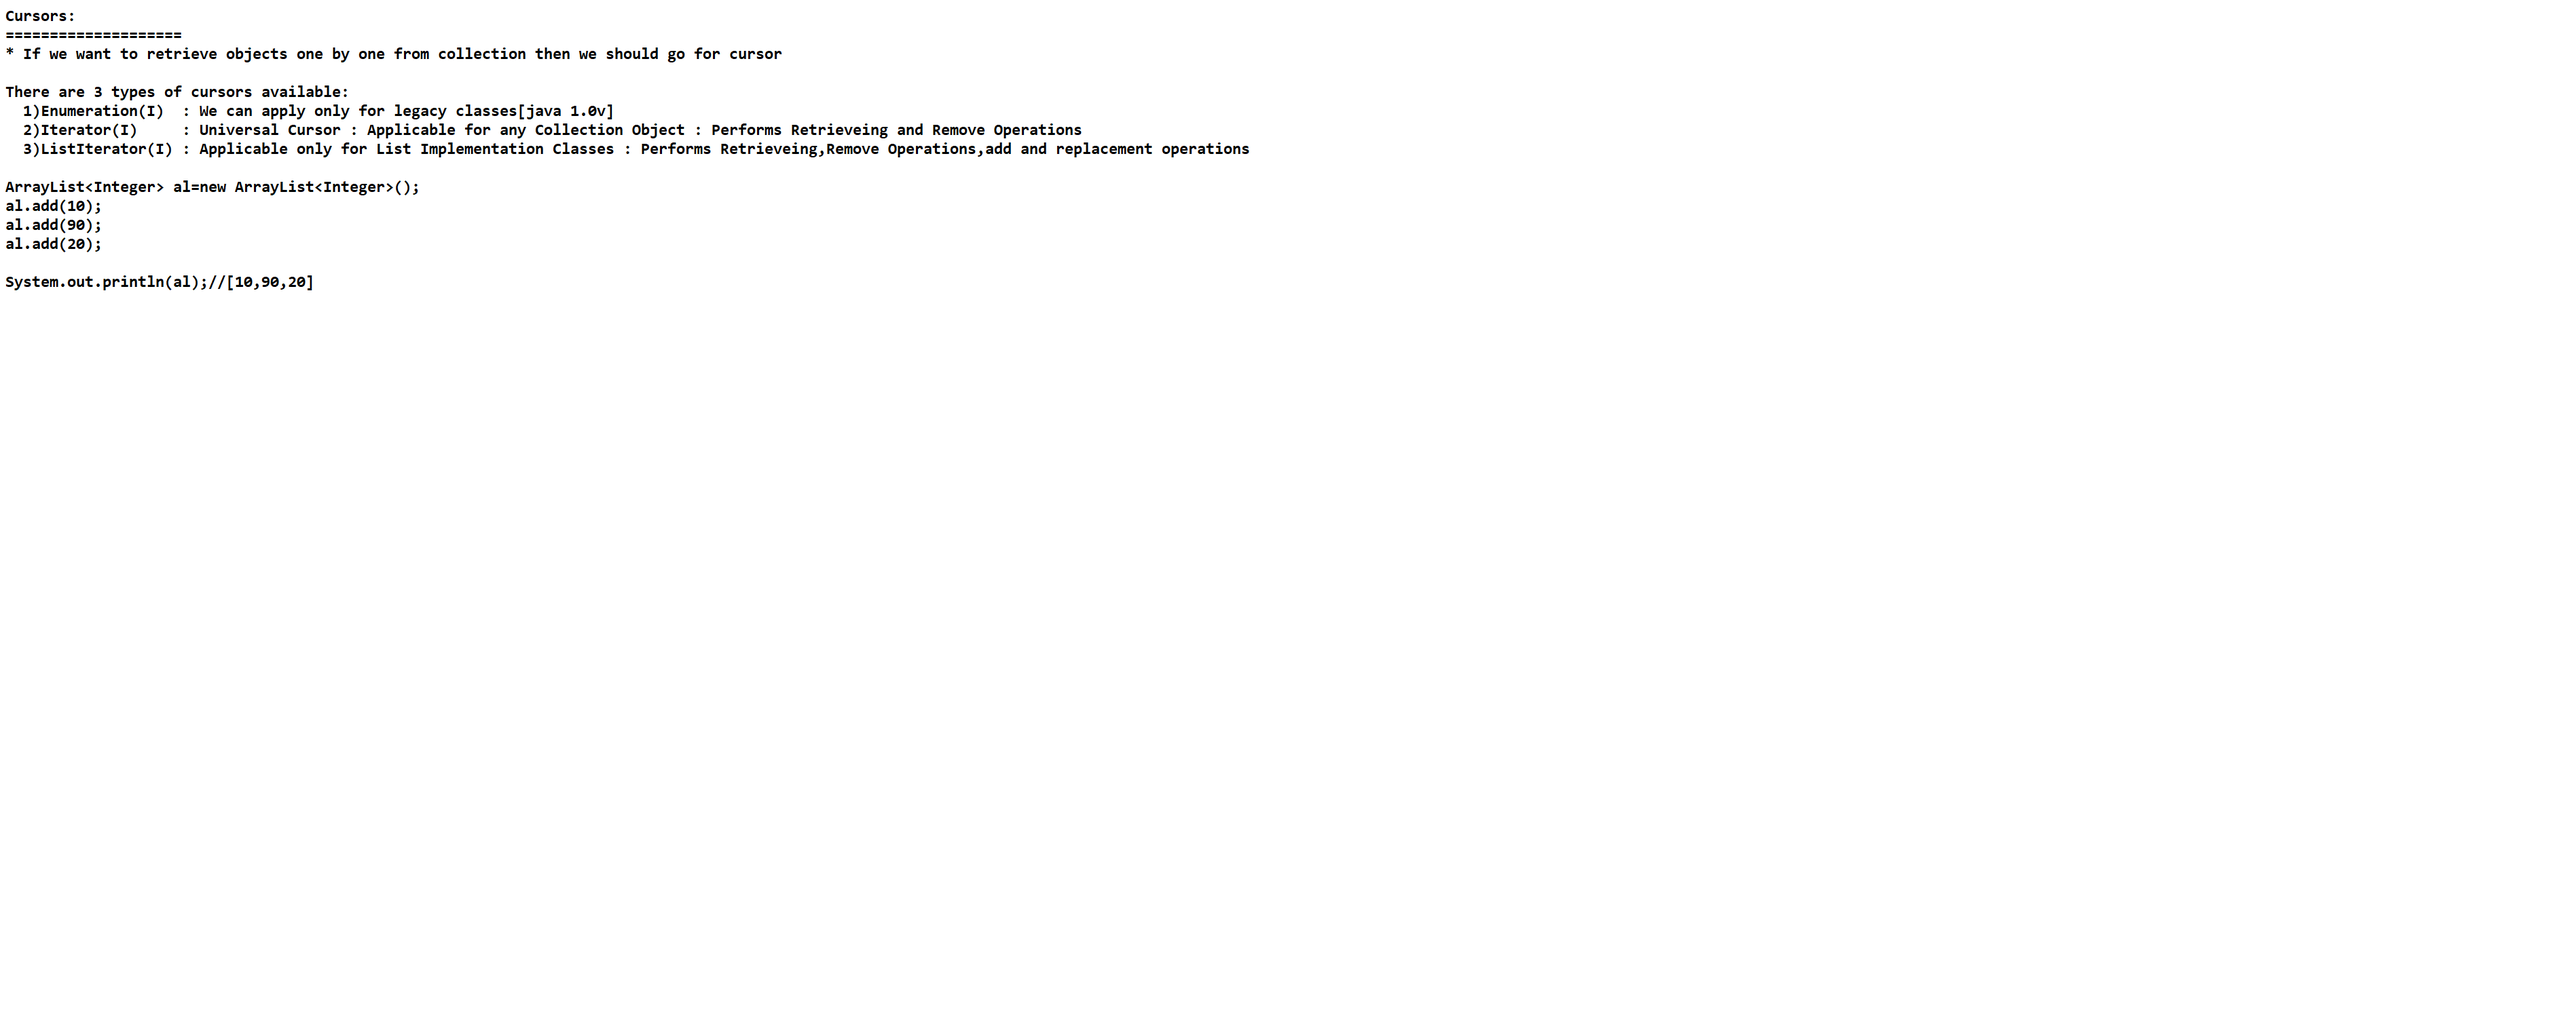
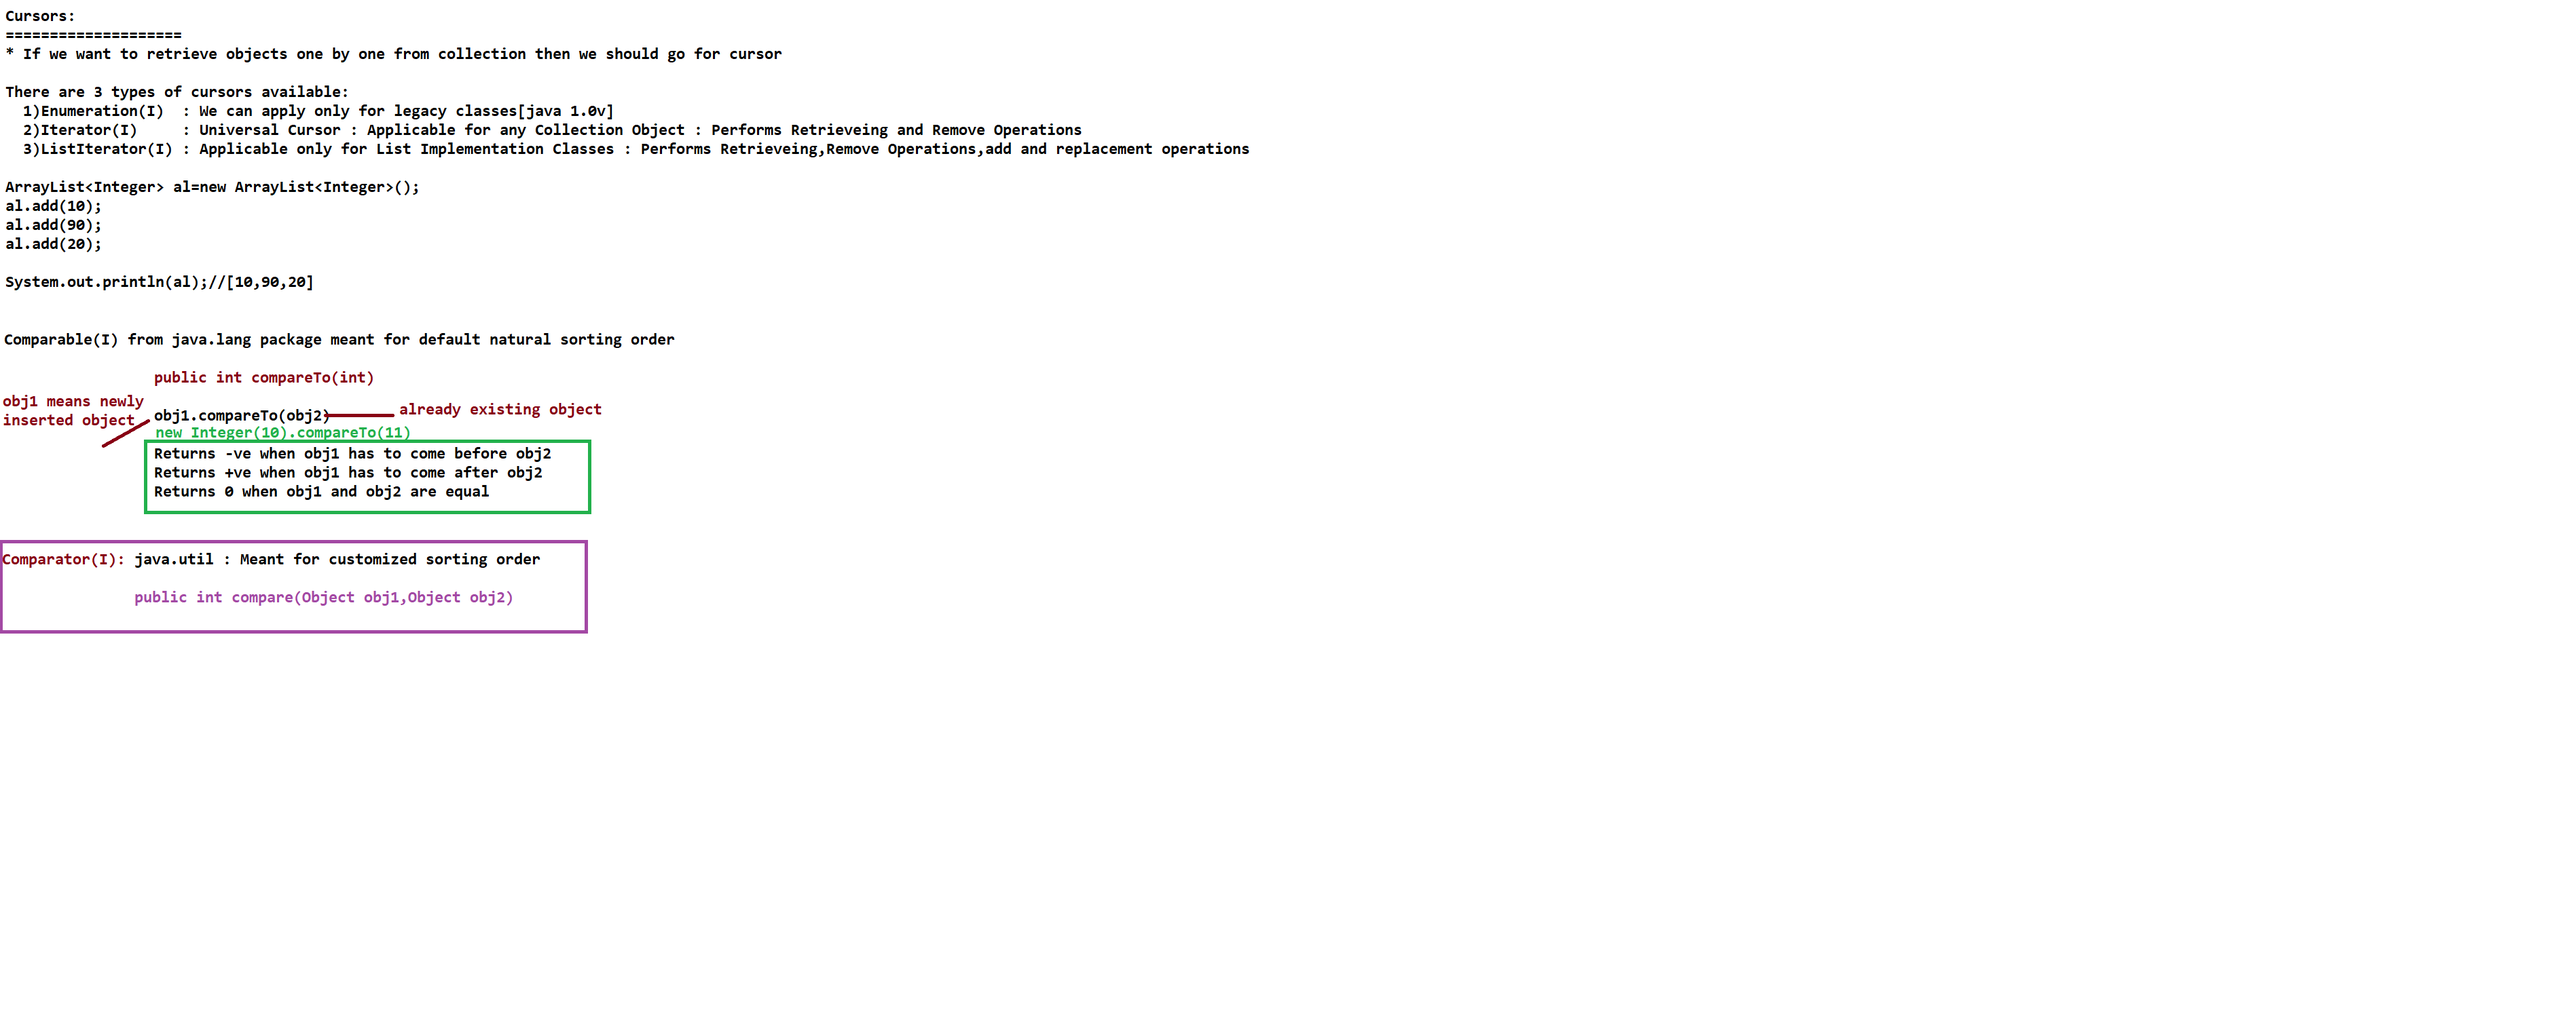
First Commit

Changed region(s): [[0.0, 0.3725, 0.2177, 0.6209], [0.0, 0.3104, 0.2488, 0.3725]]

diff --git a/CustomizedSortingTechnique/src/com/capgemini/in/TreeMapDemo.java b/CustomizedSortingTechnique/src/com/capgemini/in/TreeMapDemo.java
@@ -1,0 +1,39 @@
+package com.capgemini.in;
+
+import java.util.Comparator;
+import java.util.TreeMap;
+
+class MyComparator1 implements Comparator<Integer>
+{
+	@Override
+	public int compare(Integer obj1, Integer obj2) {
+		if(obj1<obj2)
+		{
+			return 1;
+		}
+		else if(obj1>obj2)
+		{
+			return -1;
+		}
+		else
+			return 0;
+	}
+}
+
+public class TreeMapDemo {
+
+	public static void main(String[] args) {
+		
+		TreeMap<Integer,String> tm=new TreeMap<Integer,String>(new MyComparator1());
+		
+		tm.put(3,"Raj");
+		tm.put(4,"Ravi");
+		tm.put(1,"Prudhvi");
+		tm.put(2,"Praveen");
+		
+		
+		
+		System.out.println(tm);
+	}
+
+}

diff --git a/CustomizedSortingTechnique/src/com/capgemini/in/TreeSetDemo1.java b/CustomizedSortingTechnique/src/com/capgemini/in/TreeSetDemo1.java
@@ -1,0 +1,39 @@
+package com.capgemini.in;
+
+import java.util.Comparator;
+import java.util.TreeSet;
+
+class MyComparator implements Comparator<Integer>
+{
+	@Override
+	public int compare(Integer obj1, Integer obj2) {
+		if(obj1<obj2)
+		{
+			return 1;
+		}
+		else if(obj1>obj2)
+		{
+			return -1;
+		}
+		else
+		{
+			return 0;
+		}
+		
+	}
+}
+
+public class TreeSetDemo1 {
+
+	public static void main(String[] args) {
+		
+		TreeSet<Integer> ts1=new TreeSet<Integer>();
+		ts1.add(11);
+		ts1.add(12);
+		ts1.add(5);
+		ts1.add(2);
+
+		System.out.println(ts1);
+	}
+
+}

diff --git a/CustomizedSortingTechnique/src/com/capgemini/in/TreeSetDemo.java b/CustomizedSortingTechnique/src/com/capgemini/in/TreeSetDemo.java
@@ -1,0 +1,24 @@
+package com.capgemini.in;
+
+import java.util.TreeSet;
+
+public class TreeSetDemo {
+
+	public static void main(String[] args) {
+		
+		TreeSet ts=new TreeSet();
+		ts.add("Prudhvi");
+		ts.add("Praveen");
+		ts.add("Prakash");
+		
+		System.out.println(ts);
+		
+		System.out.println(new Integer(10).compareTo(new Integer(11)));
+		System.out.println(new Integer(10).compareTo(new Integer(1)));
+		System.out.println(new Integer(11).compareTo(new Integer(11)));
+		
+		System.out.println("A".compareTo("B"));
+
+	}
+
+}
